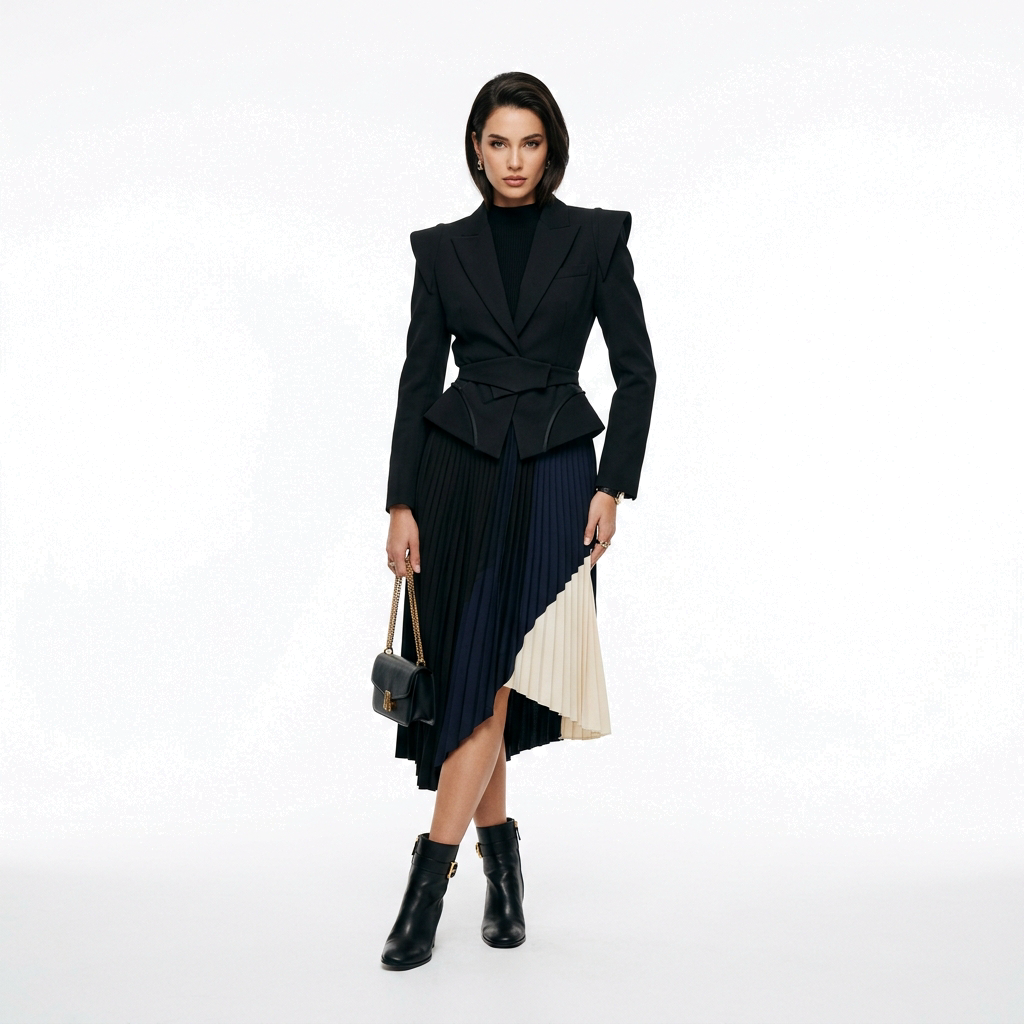
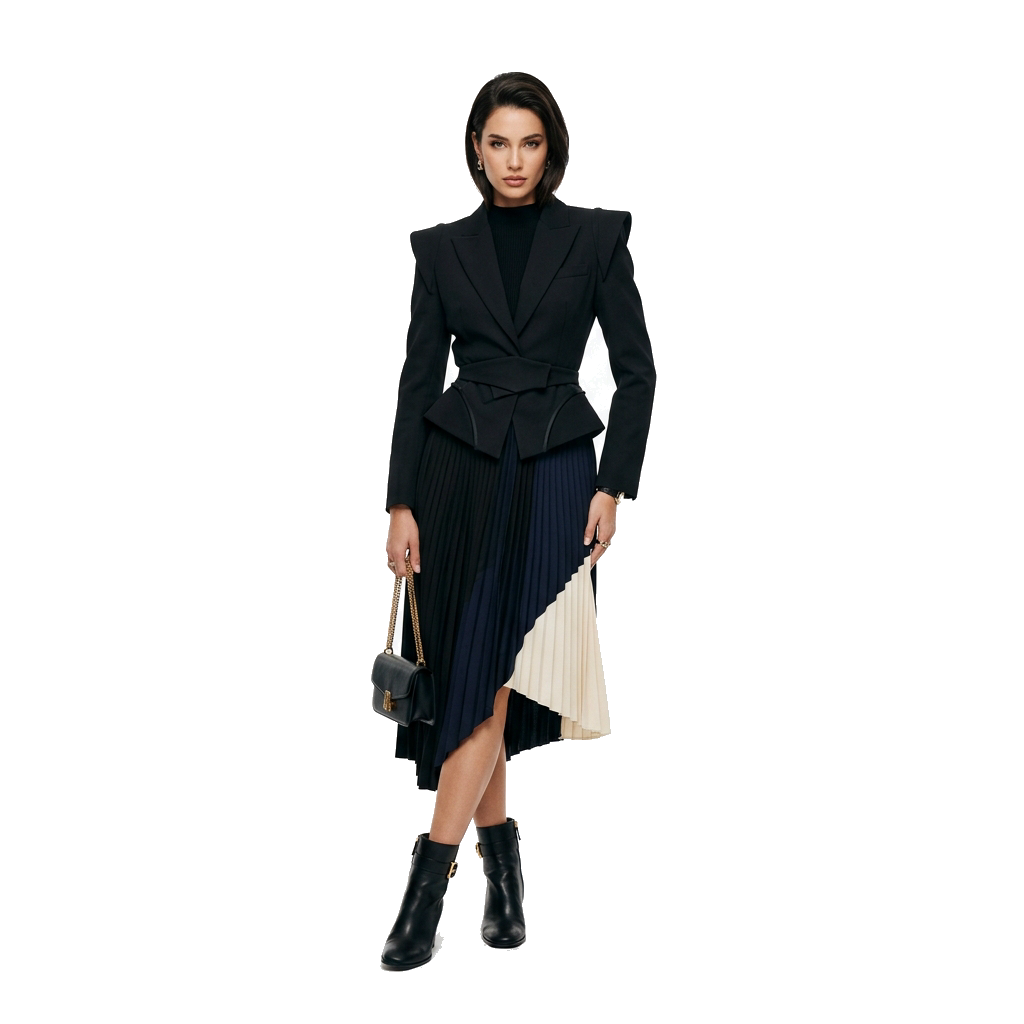
Convert 3rd and 4th hero section images to photorealistic transparent PNGs by removing their white backgrounds

Changed region(s): [[0.3438, 0.875, 0.5938, 1.0], [0.0, 0.875, 0.2812, 1.0], [0.8125, 0.875, 1.0, 1.0]]

diff --git a/src/pages/HomePage.jsx b/src/pages/HomePage.jsx
@@ -169,7 +169,7 @@ const HomePage = () => {
         </>
       ),
       desc: "Book verified professional models & actors for your campaign.",
-      image: "fashion_model.svg",
+      image: "fashion_model_cutout.png",
       btnLabel: "Explore Talents",
       tab: "models",
       background: "linear-gradient(90deg, #f5f3ff 0%, #edd8fc 100%)"
@@ -182,7 +182,7 @@ const HomePage = () => {
         </>
       ),
       desc: "Book fully equipped cyclorama studios and luxury lifestyle sets.",
-      image: "studio_gear.svg",
+      image: "studio_gear_cutout.png",
       btnLabel: "Book Studio",
       tab: "studios",
       background: "linear-gradient(90deg, #ecfeff 0%, #cffafe 100%)"
@@ -274,7 +274,7 @@ const HomePage = () => {
         </>
       ),
       description: "Rent fully-equipped professional studios and top-tier camera gear for your next production. From green screens to premium lighting kits, find exactly what you need.",
-      image: "studio_gear.svg",
+      image: "studio_gear_cutout.png",
       background: "radial-gradient(circle at 60% 40%, rgba(16, 185, 129, 0.25) 0%, transparent 60%), linear-gradient(135deg, #059669 0%, #047857 100%)",
       highlights: [
         { icon: "🏢", label: "Premium Studios" },
@@ -304,7 +304,7 @@ const HomePage = () => {
         </>
       ),
       description: "Discover and book professional fashion, fitness, and commercial models. Elevate your brand's visual identity with experienced talent ready for any shoot.",
-      image: "fashion_model.svg",
+      image: "fashion_model_cutout.png",
       background: "radial-gradient(circle at 60% 40%, rgba(236, 72, 153, 0.25) 0%, transparent 60%), linear-gradient(135deg, #db2777 0%, #be185d 100%)",
       highlights: [
         { icon: "👗", label: "Fashion Models" },